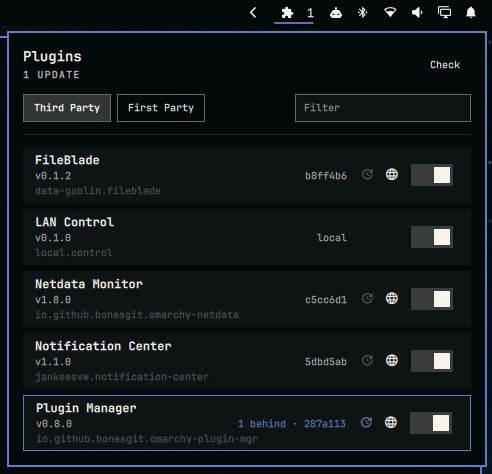
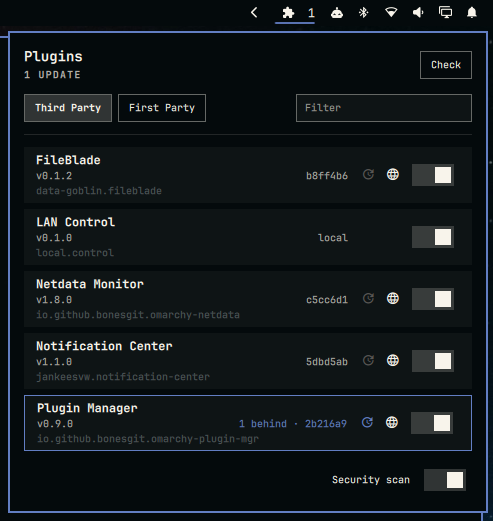
docs: refresh README scan blurb and preview

diff --git a/README.md b/README.md
@@ -4,8 +4,8 @@ Omarchy bar widget that lists shell plugins in **Third Party** and **First Party
 tabs, with enable/disable, git update checks, update, remove, and a view repo button.
 
 > [!IMPORTANT]
-> **Security scan before update.** Incoming commits are reviewed by your Omarchy
-> default coding agent for malware, exploits, and data leakage. The plugin
+> **Security scan feature** Uses your default AI agent to perform security scans on plugin updates. 
+> Scan will look for malware, exploits, and data leakage. The plugin
 > updates only if that scan reports clear. Toggle **Security scan** at the
 > bottom of the panel (`omarchy default agent` to enable it).
 
